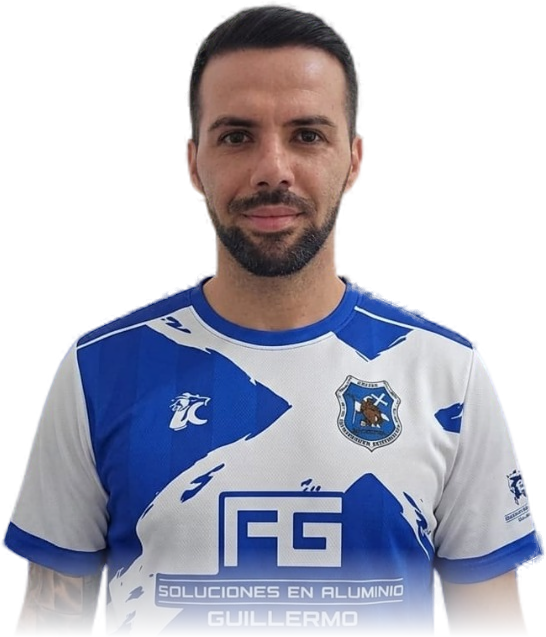
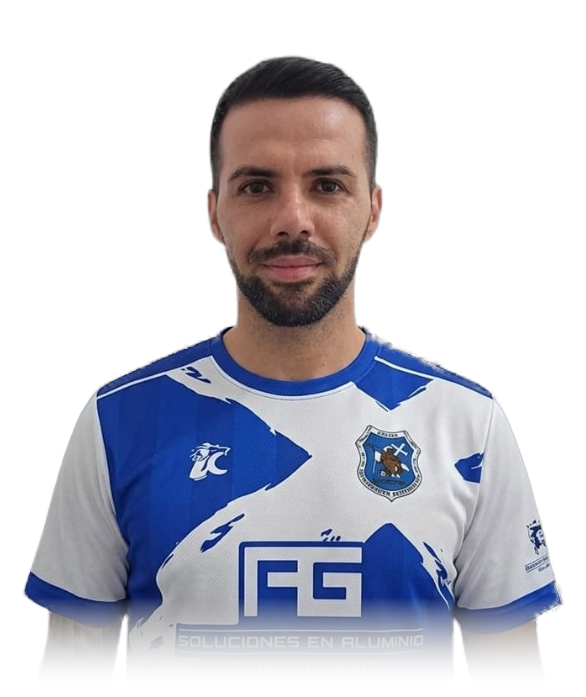
fix(plantilla): encuadrar retrato completo de Tejera con margen superior y marco proporcional

diff --git a/regional/index.html b/regional/index.html
@@ -524,15 +524,15 @@
                     </div>
                 </a>
                 <a href="/regional/adrian-tejera/" class="team-card player-card-link bg-white/5 border border-brand-neon/30 hover:border-brand-neon hover:-translate-y-1 rounded-2xl overflow-hidden group transition-all duration-300 shadow-neon">
-                    <div class="h-48 bg-gradient-to-b from-brand-blue/20 to-gray-900 relative overflow-hidden flex items-end justify-center">
-                        <div class="absolute inset-0 bg-gradient-to-t from-brand-dark via-transparent to-transparent z-10"></div>
-                        <img src="/assets/img/tejera.webp" alt="Adrián Tejera" class="h-full w-full object-cover object-top relative z-0 group-hover:scale-105 transition-transform duration-300">
-                        <div class="absolute top-4 right-4 z-20 flex items-center gap-1.5">
-                            <span class="bg-brand-neon text-brand-dark font-bold px-2 py-1 rounded text-xs shadow-md">#11</span>
-                            <span class="badge-captain-solid px-2 py-0.5 rounded text-[10px] uppercase shadow-md" style="background: linear-gradient(135deg, #facc15 0%, #eab308 100%); color: #020617; font-weight: 900;">Capitán</span>
+                    <div class="card-player-photo">
+                        <div class="absolute inset-0 bg-gradient-to-t from-brand-dark via-transparent to-transparent z-10 pointer-events-none"></div>
+                        <img src="/assets/img/tejera.webp" alt="Adrián Tejera" class="relative z-0">
+                        <div class="absolute top-3 right-3 z-20 flex items-center gap-1.5">
+                            <span class="bg-brand-neon text-brand-dark font-black px-2.5 py-1 rounded-lg text-xs shadow-md">#11</span>
+                            <span class="badge-captain-solid px-2.5 py-1 rounded-lg text-[10px] uppercase shadow-md" style="background: linear-gradient(135deg, #facc15 0%, #eab308 100%); color: #020617; font-weight: 900;">Capitán</span>
                         </div>
                     </div>
-                    <div class="p-5 text-center relative z-20 -mt-8">
+                    <div class="p-5 text-center relative z-20 -mt-4">
                         <h4 class="font-heading font-bold text-lg text-white group-hover:text-brand-neon transition-colors">Adrián Tejera</h4>
                         <p class="text-brand-neon text-sm font-medium mt-1">Medio (Extremo)</p>
                         <p class="text-xs text-gray-500 font-bold tracking-widest uppercase mt-4">Ver ficha</p>

diff --git a/assets/css/common.css b/assets/css/common.css
@@ -319,3 +319,30 @@ select:focus-visible {
     color: #fde047 !important;
     font-weight: 800 !important;
 }
+
+/* --- Marco y encuadre óptimo para fotos de jugadores --- */
+.card-player-photo {
+    height: 230px;
+    background: radial-gradient(circle at 50% 20%, rgba(0, 82, 255, 0.25) 0%, rgba(3, 7, 18, 0.8) 75%);
+    position: relative;
+    overflow: hidden;
+    display: flex;
+    align-items: flex-end;
+    justify-content: center;
+    padding-top: 12px;
+}
+
+.card-player-photo img {
+    height: 100%;
+    width: 100%;
+    object-fit: contain;
+    object-position: bottom center;
+    position: relative;
+    z-index: 1;
+    filter: drop-shadow(0 10px 20px rgba(0, 0, 0, 0.85));
+    transition: transform 0.3s cubic-bezier(0.4, 0, 0.2, 1);
+}
+
+.team-card:hover .card-player-photo img {
+    transform: scale(1.05);
+}
